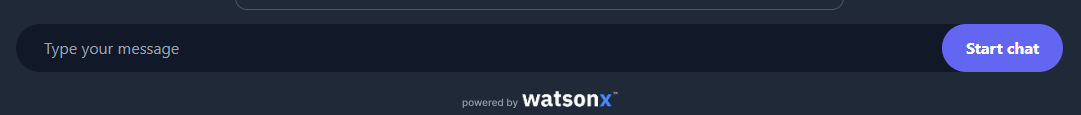
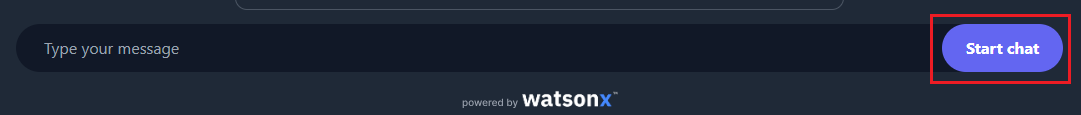
prompt msg image

Changed region(s): [[0.8548, 0.1043, 1.0, 0.7304]]

diff --git a/Instructions.md b/Instructions.md
@@ -49,7 +49,7 @@ Use the "Prompt Instructions" field in the upper right pane of the chat system t
 
 
 #### 4. Type Your Message:
-Use the text box at the bottom of the page to write prompts and converse with the chat system. Enter your prompt to generate a Dockerfile, `Generate a Dockerfile for a Node.js application,` and click on `Start Chat.`
+Use the text box at the bottom of the page to write prompts and converse with the chat system. Enter your prompt message and click on `Start Chat`
 
 <img src="./images/prompt_message_box.png" alt="prompt message">
 
